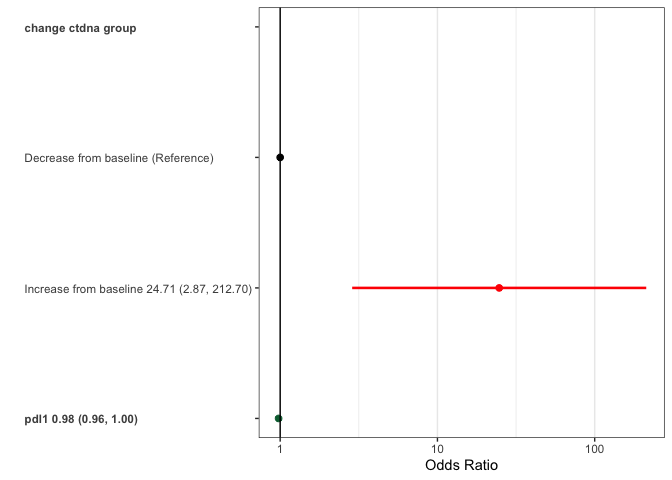
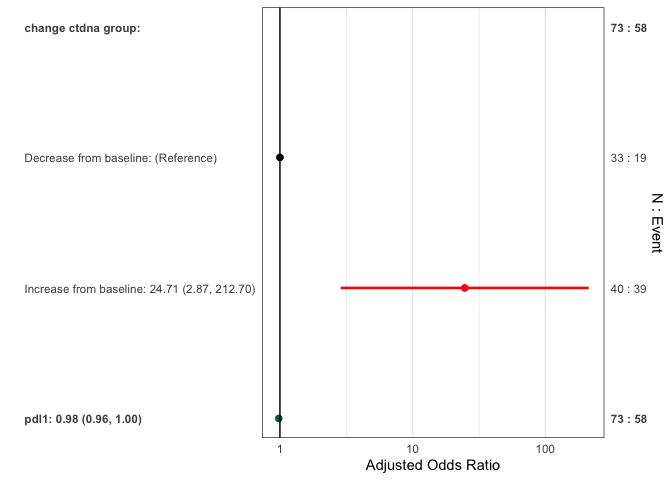
updates to README

diff --git a/README.md b/README.md
@@ -41,8 +41,9 @@ devtools::install_github("biostatsPMH/reportRmd", ref="development")
 
 ## New Features
 
-- new compact summary table function rm_compactsum
+- new compact summary table function `rm_compactsum`
 - main functions are now pipeable
+- new function to use variable labels in ggplots `replace_plot_labels`
 
 ## Documentation
 
@@ -61,24 +62,24 @@ covs=c('age','pdl1','change_ctdna_group'),
 show.tests=TRUE)
 ```
 
-<table class="table" style="margin-left: auto; margin-right: auto;">
+<table class="table table" style="margin-left: auto; margin-right: auto; margin-left: auto; margin-right: auto;">
 <thead>
 <tr>
-<th style="text-align:left;">
+<th style="text-align:left;position: sticky; top:0; background-color: #FFFFFF;">
 </th>
-<th style="text-align:right;">
+<th style="text-align:right;position: sticky; top:0; background-color: #FFFFFF;">
 Full Sample (n=94)
 </th>
-<th style="text-align:right;">
+<th style="text-align:right;position: sticky; top:0; background-color: #FFFFFF;">
 Female (n=58)
 </th>
-<th style="text-align:right;">
+<th style="text-align:right;position: sticky; top:0; background-color: #FFFFFF;">
 Male (n=36)
 </th>
-<th style="text-align:right;">
+<th style="text-align:right;position: sticky; top:0; background-color: #FFFFFF;">
 p-value
 </th>
-<th style="text-align:right;">
+<th style="text-align:right;position: sticky; top:0; background-color: #FFFFFF;">
 StatTest
 </th>
 </tr>
@@ -287,27 +288,26 @@ Missing
 ``` r
 pembrolizumab |> rm_compactsum( grp = 'sex',
 xvars=c('age','pdl1','change_ctdna_group'))
-#> Descriptive statistics were calculated as median (IQR) for age and pdl1 and counts (%) for change_ctdna_group. Between group comparisons were made using Wilcoxon rank sum test for age and pdl1 and chi-square test for change_ctdna_group.
 ```
 
-<table class="table" style="margin-left: auto; margin-right: auto;">
+<table class="table table" style="margin-left: auto; margin-right: auto; margin-left: auto; margin-right: auto;">
 <thead>
 <tr>
-<th style="text-align:left;">
+<th style="text-align:left;position: sticky; top:0; background-color: #FFFFFF;">
 </th>
-<th style="text-align:right;">
+<th style="text-align:right;position: sticky; top:0; background-color: #FFFFFF;">
 Full Sample (n=94)
 </th>
-<th style="text-align:right;">
+<th style="text-align:right;position: sticky; top:0; background-color: #FFFFFF;">
 Female (n=58)
 </th>
-<th style="text-align:right;">
+<th style="text-align:right;position: sticky; top:0; background-color: #FFFFFF;">
 Male (n=36)
 </th>
-<th style="text-align:right;">
+<th style="text-align:right;position: sticky; top:0; background-color: #FFFFFF;">
 p-value
 </th>
-<th style="text-align:right;">
+<th style="text-align:right;position: sticky; top:0; background-color: #FFFFFF;">
 Missing
 </th>
 </tr>
@@ -391,21 +391,21 @@ rm_covsum(data=pembrolizumab, maincov = 'sex',
 covs=c('age','pdl1','change_ctdna_group'))
 ```
 
-<table class="table" style="margin-left: auto; margin-right: auto;">
+<table class="table table" style="margin-left: auto; margin-right: auto; margin-left: auto; margin-right: auto;">
 <thead>
 <tr>
-<th style="text-align:left;">
+<th style="text-align:left;position: sticky; top:0; background-color: #FFFFFF;">
 </th>
-<th style="text-align:right;">
+<th style="text-align:right;position: sticky; top:0; background-color: #FFFFFF;">
 Full Sample (n=94)
 </th>
-<th style="text-align:right;">
+<th style="text-align:right;position: sticky; top:0; background-color: #FFFFFF;">
 Female (n=58)
 </th>
-<th style="text-align:right;">
+<th style="text-align:right;position: sticky; top:0; background-color: #FFFFFF;">
 Male (n=36)
 </th>
-<th style="text-align:right;">
+<th style="text-align:right;position: sticky; top:0; background-color: #FFFFFF;">
 p-value
 </th>
 </tr>
@@ -595,21 +595,21 @@ covs=c('age','pdl1','change_ctdna_group'))
 #> Waiting for profiling to be done...
 ```
 
-<table class="table" style="margin-left: auto; margin-right: auto;">
+<table class="table table" style="margin-left: auto; margin-right: auto; margin-left: auto; margin-right: auto;">
 <thead>
 <tr>
-<th style="text-align:left;">
+<th style="text-align:left;position: sticky; top:0; background-color: #FFFFFF;">
 </th>
-<th style="text-align:right;">
+<th style="text-align:right;position: sticky; top:0; background-color: #FFFFFF;">
 OR(95%CI)
 </th>
-<th style="text-align:right;">
+<th style="text-align:right;position: sticky; top:0; background-color: #FFFFFF;">
 p-value
 </th>
-<th style="text-align:right;">
+<th style="text-align:right;position: sticky; top:0; background-color: #FFFFFF;">
 N
 </th>
-<th style="text-align:right;">
+<th style="text-align:right;position: sticky; top:0; background-color: #FFFFFF;">
 Event
 </th>
 </tr>
@@ -710,21 +710,21 @@ glm_fit <- glm(orr~change_ctdna_group+pdl1+cohort,
 rm_mvsum(glm_fit,showN=T)
 ```
 
-<table class="table" style="margin-left: auto; margin-right: auto;">
+<table class="table table" style="margin-left: auto; margin-right: auto; margin-left: auto; margin-right: auto;">
 <thead>
 <tr>
-<th style="text-align:left;">
+<th style="text-align:left;position: sticky; top:0; background-color: #FFFFFF;">
 </th>
-<th style="text-align:right;">
+<th style="text-align:right;position: sticky; top:0; background-color: #FFFFFF;">
 OR(95%CI)
 </th>
-<th style="text-align:right;">
+<th style="text-align:right;position: sticky; top:0; background-color: #FFFFFF;">
 p-value
 </th>
-<th style="text-align:right;">
+<th style="text-align:right;position: sticky; top:0; background-color: #FFFFFF;">
 N
 </th>
-<th style="text-align:right;">
+<th style="text-align:right;position: sticky; top:0; background-color: #FFFFFF;">
 Event
 </th>
 </tr>
@@ -916,21 +916,21 @@ mvsumTable <- rm_mvsum(glm_fit,tableOnly = TRUE)
 rm_uv_mv(uvsumTable,mvsumTable)
 ```
 
-<table class="table" style="margin-left: auto; margin-right: auto;">
+<table class="table table" style="margin-left: auto; margin-right: auto; margin-left: auto; margin-right: auto;">
 <thead>
 <tr>
-<th style="text-align:left;">
+<th style="text-align:left;position: sticky; top:0; background-color: #FFFFFF;">
 </th>
-<th style="text-align:right;">
+<th style="text-align:right;position: sticky; top:0; background-color: #FFFFFF;">
 Unadjusted OR(95%CI)
 </th>
-<th style="text-align:right;">
+<th style="text-align:right;position: sticky; top:0; background-color: #FFFFFF;">
 p
 </th>
-<th style="text-align:right;">
+<th style="text-align:right;position: sticky; top:0; background-color: #FFFFFF;">
 Adjusted OR(95%CI)
 </th>
-<th style="text-align:right;">
+<th style="text-align:right;position: sticky; top:0; background-color: #FFFFFF;">
 p (adj)
 </th>
 </tr>
@@ -1074,22 +1074,22 @@ tests between groups
  survtimeunit='yr')
 ```
 
-<table class="table" style="margin-left: auto; margin-right: auto;">
+<table class="table table" style="margin-left: auto; margin-right: auto; margin-left: auto; margin-right: auto;">
 <thead>
 <tr>
-<th style="text-align:left;">
+<th style="text-align:left;position: sticky; top:0; background-color: #FFFFFF;">
 Group
 </th>
-<th style="text-align:right;">
+<th style="text-align:right;position: sticky; top:0; background-color: #FFFFFF;">
 Events/Total
 </th>
-<th style="text-align:right;">
+<th style="text-align:right;position: sticky; top:0; background-color: #FFFFFF;">
 Median (95%CI)
 </th>
-<th style="text-align:right;">
+<th style="text-align:right;position: sticky; top:0; background-color: #FFFFFF;">
 1yr (95% CI)
 </th>
-<th style="text-align:right;">
+<th style="text-align:right;position: sticky; top:0; background-color: #FFFFFF;">
 2yr (95% CI)
 </th>
 </tr>
@@ -1222,19 +1222,19 @@ eventtimes=c(1825,3650),eventtimeunit='day')
 #> 106 observations with missing data were removed.
 ```
 
-<table class="table" style="margin-left: auto; margin-right: auto;">
+<table class="table table" style="margin-left: auto; margin-right: auto; margin-left: auto; margin-right: auto;">
 <thead>
 <tr>
-<th style="text-align:left;">
+<th style="text-align:left;position: sticky; top:0; background-color: #FFFFFF;">
 Strata
 </th>
-<th style="text-align:right;">
+<th style="text-align:right;position: sticky; top:0; background-color: #FFFFFF;">
 Event/Total
 </th>
-<th style="text-align:right;">
+<th style="text-align:right;position: sticky; top:0; background-color: #FFFFFF;">
 1825day (95% CI)
 </th>
-<th style="text-align:right;">
+<th style="text-align:right;position: sticky; top:0; background-color: #FFFFFF;">
 3650day (95% CI)
 </th>
 </tr>
@@ -1339,14 +1339,8 @@ data=pembrolizumab)
 ``` r
 require(ggplot2)
 #> Loading required package: ggplot2
-forestplot2(glm_fit)
-#> Warning: `forestplot2()` was deprecated in reportRmd 0.1.0.
-#> ℹ Please use `forestplotUV()` instead.
-#> This warning is displayed once every 8 hours.
-#> Call `lifecycle::last_lifecycle_warnings()` to see where this warning was
-#> generated.
-#> Warning: Vectorized input to `element_text()` is not officially supported.
-#> ℹ Results may be unexpected or may change in future versions of ggplot2.
+forestplotMV(glm_fit)
+#> Warning in forestplotMV(glm_fit): NAs introduced by coercion
 ```
 
 <img src="man/figures/README-unnamed-chunk-9-1.png" width="100%" />
@@ -1365,3 +1359,21 @@ covs=c('age','cohort','pdl1','change_ctdna_group'))
 ```
 
 <img src="man/figures/README-unnamed-chunk-10-1.png" width="100%" />
+
+### Replacing variable names with labels in ggplot
+
+``` r
+data("mtcars")
+mtcars <- mtcars |> 
+  dplyr::mutate(cyl = as.factor(cyl)) |>
+  set_labels(data.frame(var=c("hp","mpg","cyl"),
+                        label=c('Horsepower',
+                                'Miles per gallon',
+                                'Number of cylinders'))) 
+p <- mtcars |> 
+ggplot(aes(x=hp, y=mpg, color=cyl, shape=cyl)) +
+    geom_point()
+replace_plot_labels(p)
+```
+
+<img src="man/figures/README-unnamed-chunk-11-1.png" width="100%" />
